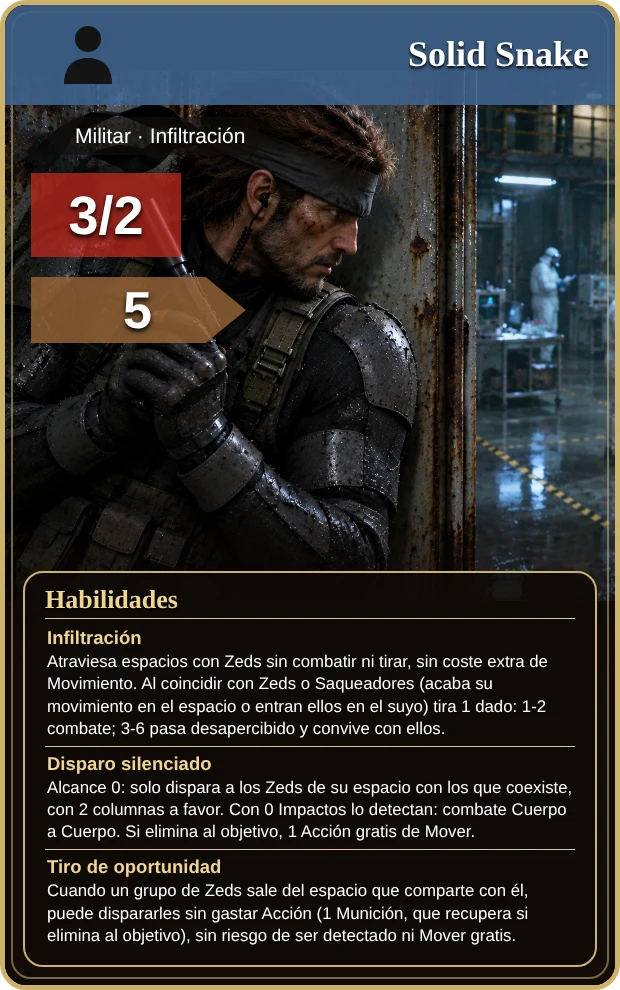
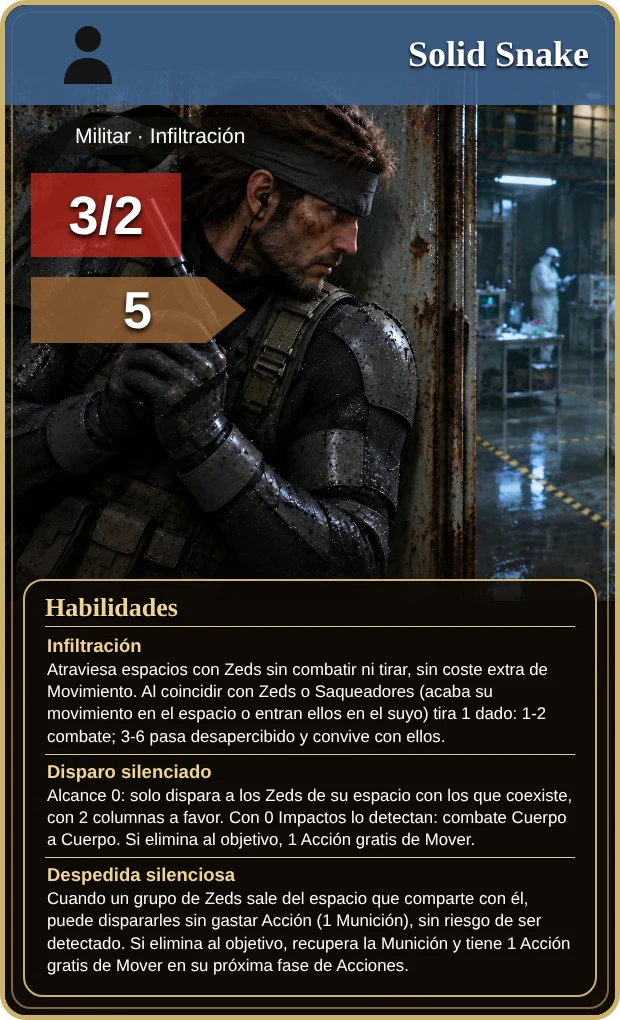
Solid Snake: la habilidad reactiva pasa a llamarse «Despedida silenciosa» y mantiene el Mover gratis al eliminar (se aplica en su siguiente fase de Acciones)
Claude-Session: https://claude.ai/code/session_01KmRiLcYw81ZWXjSnc4kn6e

diff --git a/js/expansions.js b/js/expansions.js
@@ -37,7 +37,7 @@ Object.assign(HEROES, {
   caza: { name: 'Club de Caza de Farmingdale', type: 'civh', cls: 'Civiles Heroicos', full: 3, red: 2, mp: 3, img: 'caza', card: 'h_caza', lv: 2, exp: 4, hf: 2, hr: 2,
     txt: ['<b>Puesto de caza:</b> disparan a 2 espacios sin penalización de columna.', '<b>Trofeo:</b> cuando su disparo elimina a una unidad Zed, recuperan 1 Munición.', '<b>Presa marcada:</b> Acción de Personaje (1 Acción), una vez por turno: marcan una unidad Zed a su alcance. Los disparos de cualquier unidad de jugador contra ella tienen 1 columna a favor hasta que sea eliminada o termine el turno.', '<b>A campo abierto:</b> tienen 1 columna en contra en combates Cuerpo a Cuerpo.'] },
   snake:     { name: 'Solid Snake',        type: 'hero', cls: 'Militar',    full: 3, red: 2, mp: 5, img: 'snake', card: 'h_snake', lv: 1, exp: 4,
-    txt: ['<b>Infiltración:</b> puede atravesar espacios con Zeds sin combatir ni tirar, y sin coste extra de Movimiento. Al coincidir con Zeds o Saqueadores (porque acaba su movimiento en el espacio o porque entran ellos en el suyo) tira 1 dado: 1-2 combate normal; 3-6 pasa desapercibido y convive con ellos sin combatir.', '<b>Disparo silenciado:</b> solo dispara a los Zeds de su propio espacio con los que coexiste sin combatir (alcance 0), con 2 columnas a favor. Si el disparo hace 0 Impactos, lo detectan: pierde el sigilo y hay combate Cuerpo a Cuerpo. Si elimina al objetivo, recibe 1 Acción gratis de Mover.', '<b>Tiro de oportunidad:</b> cuando un grupo de Zeds sale del espacio que comparte con él, puede dispararles sin gastar Acción (1 Munición, que recupera si elimina al objetivo) con las reglas del Disparo silenciado, sin riesgo de ser detectado ni Mover gratis por la baja. Los supervivientes avanzan.'] },
+    txt: ['<b>Infiltración:</b> puede atravesar espacios con Zeds sin combatir ni tirar, y sin coste extra de Movimiento. Al coincidir con Zeds o Saqueadores (porque acaba su movimiento en el espacio o porque entran ellos en el suyo) tira 1 dado: 1-2 combate normal; 3-6 pasa desapercibido y convive con ellos sin combatir.', '<b>Disparo silenciado:</b> solo dispara a los Zeds de su propio espacio con los que coexiste sin combatir (alcance 0), con 2 columnas a favor. Si el disparo hace 0 Impactos, lo detectan: pierde el sigilo y hay combate Cuerpo a Cuerpo. Si elimina al objetivo, recibe 1 Acción gratis de Mover.', '<b>Despedida silenciosa:</b> cuando un grupo de Zeds sale del espacio que comparte con él, puede dispararles sin gastar Acción (1 Munición) con las reglas del Disparo silenciado, sin riesgo de ser detectado. Si elimina al objetivo, recupera la Munición y tiene 1 Acción gratis de Mover en su próxima fase de Acciones. Los supervivientes avanzan.'] },
 });
 CIVH_POOL.push('jaque', 'sar', 'caza', 'brigada');
 const EXP_HEROES = { 1: ['carter', 'lee', 'may'], 2: ['betty'], 4: ['porter', 'alia', 'bender', 'ash', 'frank', 'doc', 'samcarter', 'macgyver', 'heli', 'snake'] };

diff --git a/js/engine.js b/js/engine.js
@@ -911,19 +911,20 @@ function fireStrength(u, d) {
   if (u.key === 'staub' && u.flipped) return 2;
   return strength(u);
 }
-/* Solid Snake, Tiro de oportunidad: cuando un grupo de Zeds sale del espacio que comparte con él, puede dispararles sin gastar Acción (1 Munición, que recupera si elimina al objetivo).
-   Es un disparo reactivo: sin riesgo de ser detectado y sin Mover gratis por la baja. Devuelve los Zeds del grupo que siguen en el espacio. */
+/* Solid Snake, Despedida silenciosa: cuando un grupo de Zeds sale del espacio que comparte con él, puede dispararles sin gastar Acción (1 Munición, que recupera si elimina al objetivo).
+   Es un disparo reactivo: sin riesgo de ser detectado. Si elimina al objetivo, 1 Acción gratis de Mover en su próxima fase de Acciones (carryM: el Mantenimiento borra las gratis). Devuelve los Zeds del grupo que siguen en el espacio. */
 async function tiroOportunidad(u, from, go) {
   if (!u || u.space !== from || G.over) return go;
   const zs = go.filter(z => z.space === from && G.units[z.id]); if (!zs.length) return go;
   if (fireTargets(u)[from] === undefined) return go;  /* respeta los eventos que impiden disparar */
   if (!G.turn.mercs && G.ammo < 1) return go;
-  const v = await UI.choose({ title: 'Tiro de oportunidad', text: 'Los Zeds de ' + spaceLabel(from) + ' se van. ¿Solid Snake les dispara (1 Munición, sin Acción; la recupera si elimina al objetivo)?', options: [{ label: 'Disparar', value: 'y' }, { label: 'Dejarlos ir', value: 'n' }] });
+  const v = await UI.choose({ title: 'Despedida silenciosa', text: 'Los Zeds de ' + spaceLabel(from) + ' se van. ¿Solid Snake les dispara (1 Munición, sin Acción; la recupera si elimina al objetivo)?', options: [{ label: 'Disparar', value: 'y' }, { label: 'Dejarlos ir', value: 'n' }] });
   if (v !== 'y') return go;
   const ammo0 = G.ammo, o = { targets: zs, reactive: true };
   await payFire(u); const gastada = ammo0 - G.ammo;
   await doFire(u, from, 0, o);
-  if (o.killed && gastada > 0) { G.ammo = Math.min(20, G.ammo + gastada); UI.updateStats(); LOG('Tiro de oportunidad: la baja devuelve la Munición.', 'good'); }
+  if (o.killed && gastada > 0) { G.ammo = Math.min(20, G.ammo + gastada); UI.updateStats(); LOG('Despedida silenciosa: la baja devuelve la Munición.', 'good'); }
+  if (o.killed) { u.carryM = (u.carryM || 0) + 1; LOG('Despedida silenciosa: Solid Snake tendrá 1 Acción gratis de Mover en su próxima fase de Acciones.', 'good'); }
   return go.filter(z => z.space === from && G.units[z.id]);
 }
 async function doFire(u, targetId, dist, opts) {

diff --git a/js/phases.js b/js/phases.js
@@ -148,7 +148,7 @@ async function moveGroup(movers, from, opts) {
       go = go.filter(z => z.space && G.units[z.id]); if (!go.length) { UI.redraw(); return { moved: true }; }
     }
   }
-  /* Solid Snake, Tiro de oportunidad: dispara gratis a los Zeds que salen del espacio que comparte con ellos. */
+  /* Solid Snake, Despedida silenciosa: dispara a los Zeds que salen del espacio que comparte con ellos. */
   const snk = unitsAt(from).find(u => u.key === 'snake');
   if (snk && go.length) { go = await tiroOportunidad(snk, from, go); if (!go.length) { UI.redraw(); return { moved: true }; } }
   UI.focus(dest); for (const z of go) { putUnit(z, dest); z.moved = true; }

diff --git a/js/actions.js b/js/actions.js
@@ -370,7 +370,7 @@ async function useHandCard(k) {
 
 /* ---------- mantenimiento ---------- */
 async function maintenance() {
-  for (const u of Object.values(G.units)) if (u.side === 'pl') { u.free = 0; u.freeM = 0; u.freeMF = 0; delete u.keepCalm; u.curedTurn = 0; }
+  for (const u of Object.values(G.units)) if (u.side === 'pl') { u.free = 0; u.freeM = u.carryM || 0; u.carryM = 0; u.freeMF = 0; delete u.keepCalm; u.curedTurn = 0; }
   G.charUsed = {}; G.firstFreeUsed = {};
   if (G.lv.fourR) {
     for (const s of Object.values(G.spaces)) {
